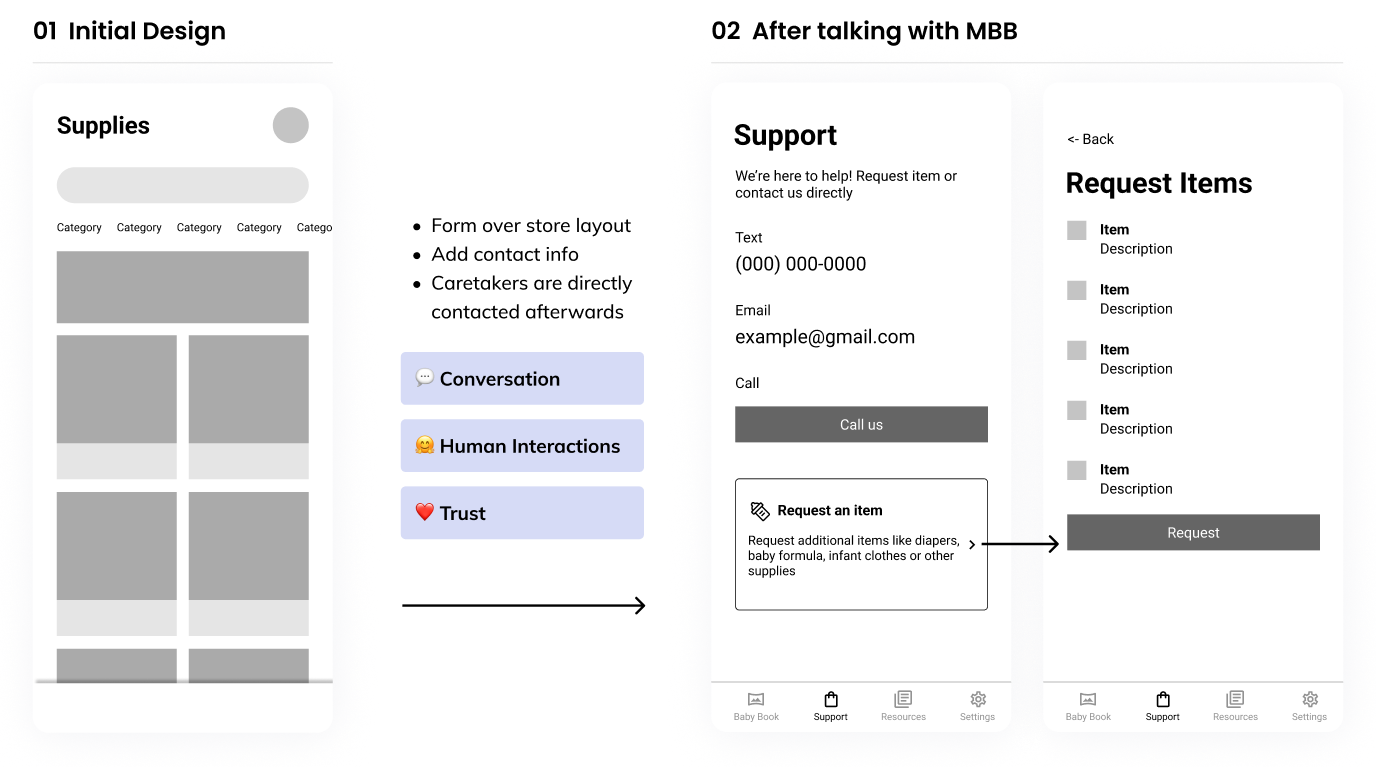
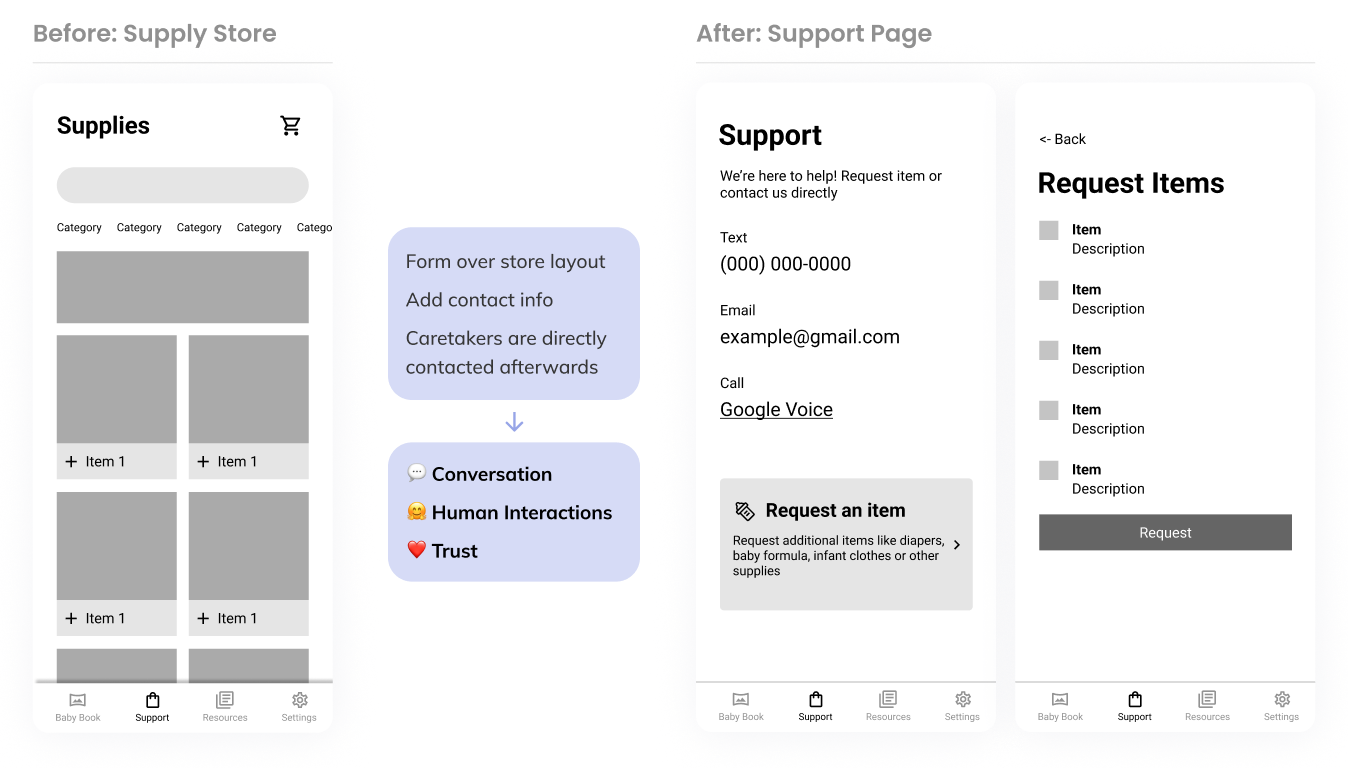
Small updates to MBB and Lacework

diff --git a/mbb.html b/mbb.html
@@ -2,7 +2,7 @@
 <html>
 
 <head>
-  <title>GT Scheduler | Joyce Shen</title>
+  <title>Motherhood Beyond Bars | Joyce Shen</title>
   <meta charset="UTF-8">
   <meta name="viewport" content="width=device-width initial-scale=1">
   <link
@@ -56,7 +56,7 @@
       <p style="margin-top:0;">Figma</p>
     </div>
     <div id="intro-image" style="background-color:var(--mbb-color);">
-      <img class="contain" src="media/mbb/banner.png" alt="Banner">
+      <img class="cover" src="media/mbb/banner.png" alt="Banner">
     </div>
   </div>
 
@@ -72,20 +72,20 @@
 		<div class="s-space"></div>
 
 		<div class="gallery mbb-intro-gallery">
-			<img src="media/mbb/mbb-mobile.png" alt="MBB Mobile">
 			<div>
 				<h3>A mobile app to get caretakers ready for their role</h3>
 				<p>The app contains a variety of features that improves communication between caretakers and MBB.</p>
 			</div>
+			<img src="media/mbb/mbb-mobile.png" alt="MBB Mobile">
 		</div>
 		<div class="s-space"></div>
 
 		<div class="gallery mbb-intro-gallery">
+			<img src="media/mbb/mbb-web.png" alt="MBB Web">
 			<div>
 				<h3>An admin portal to manage information</h3>
 				<p>The corresponding platform to the mobile app, where administrators can access all the information of their caretakers and update forms and information.</p>
 			</div>
-			<img src="media/mbb/mbb-web.png" alt="MBB Web">
 		</div>
 	</div>
 
@@ -124,6 +124,10 @@
 		<p>During our meeting with Amy and Vanessa, they mentioned that MBB was shifting over to a new vivid brand design. As we began to work through our designs, we decided to use gradients, bold colors, inviting language, a plain font, and a minimal design to reflect their brand while keeping our interface simple and readable. We pulled and customized design components from Bits of Good’s own design system.</p>
 		<div class="xs-space"></div>
 		<img class="m-img" src="media/mbb/visual-design.png" alt="Visual Design">
+		<div class="caption">How we incorporated MBB’s Instagram page and website into our product</div>
+		<div class="xs-space"></div>
+		<img class="m-img" src="media/mbb/style-guide.png" alt="Style Guide">
+		<div class="caption">Style guide for colors, fonts, spacing, and drop shadows</div>
 	</div>
 
 
@@ -144,6 +148,7 @@
 		<div class="caption">The admin portal displays a table of caretakers, and admins can whitelist additional caretakers to use the app.</div>
 		<div class="m-space"></div>
 
+		<div class="tag">Process</div>
 		<h3>Challenge: Get wireframes from 0% → 100% in two weeks</h3>
 		<p>This first sprint was a little daunting—because developers began working shortly after we designers started, we had about two weeks to mock up an entire onboarding process. We had to find an efficient way to roll our design in phases to Amy and Vanessa, our leadership team, and the developers.</p>
 		<div class="xs-space"></div>
@@ -168,12 +173,17 @@
 		<div class="caption">Admins can see counts of requested items and a list of individually requested items.</div>
 		<div class="m-space"></div>
 
+		<div class="tag">Process</div>
 		<h3>Over-automated? Maintaining person-to-person interactions</h3>
-		<p><b>We initially visualized the item requests feature as an online store</b>, with a catalog, cart, and all. But MBB explained that requesting items was not a formal process, and they planned to call caretakers individually after they made their requests.</p>
-		<div class="featured-text"><b>Calling caretakers about item requests gives MBB a chance to maintain person-to-person interactions and genuine relationships with caretakers.</b> Phone calls allow them to catch up on how caretakers are doing, so we should avoid over-automating the process. &#10084;&#65039;</div>
-		<p>Working with Amy and Vanessa, we decided the item request feature should be a form within a support page, listed with the organization’s contact information.</p>
+		<p>We initially visualized the item requests feature as an online store, with a catalog, cart, and all. But MBB explained that requesting items was not a formal process, and they planned to call caretakers individually after they made their requests.</p>
+		<p><b>Calling caretakers about item requests gives MBB a chance to maintain person-to-person interactions and genuine relationships with caretakers.</b> Phone calls allow them to catch up on how caretakers are doing, so we should avoid over-automating the process.</p>
+		<p>Working with Amy and Vanessa, we decided the item request feature should be a form on a support page, listed with the organization’s contact information.</p>
 		<div class="xs-space"></div>
 		<img class="m-img" src="media/mbb/overautomated.png" alt="Overautomated">
+		<div class="caption">Changing from a store layout to a support page + form layout</div>
+		<!-- <div class="s-space"></div>
+		<img class="m-img" src="media/mbb/overautomated-2.png" alt="Support page alternative layouts">
+		<div class="caption">Other layouts for the support page we brainstormed</div> -->
 	</div>
 
 
@@ -191,7 +201,9 @@
 		<div class="s-space"></div>
 
 		<img class="xl-img" src="media/mbb/babybook-admin.png" alt="Baby Book - Admin">
-		<div class="caption">Each child has their own baby book that admins can manage. The second screen will also be shared with mothers once they are released, so they can have an album of old photos when they are reunited with their children.</div>
+		<div class="caption">Each child has their own baby book that admins can manage.</div>
+		<div class="s-space"></div>
+		<p>The second screen above will also be shared with mothers once they are released, so they can have an album of old photos when they are reunited with their children.</p>
 	</div>
 
 	<div class="section">
@@ -200,6 +212,7 @@
 		<p>MBB also wanted a way to share and update links and FAQs to caretakers, which is especially helpful for new caretakers.</p>
 		<div class="xs-space"></div>
 		<img class="m-img" src="media/mbb/resources.png" alt="Resources">
+		<div class="caption">Caretakers can see a list of FAQs about childcare, which admins can update.</div>
 	</div>
 
 
@@ -212,6 +225,7 @@
 		<p>The caretaker app and admin app both have a settings page to edit account information. MBB also requested that admins be able to edit liability waivers.</p>
 		<div class="xs-space"></div>
 		<img class="m-img" src="media/mbb/settings.png" alt="Settings">
+		<div class="caption">Both caretakers and admins can edit their settings.</div>
 	</div>
 
 

diff --git a/lacework.html b/lacework.html
@@ -75,18 +75,18 @@
 		<h2>Lacework's reporting workflow</h2>
 		<p>Many of Lacework's customers use PDF and CSV reports to save and share their security status with others in the company. For the 12 weeks of my internship, I worked with my design supervisor and our project PM to restructure Lacework's reporting system, creating a centralized reporting workflow where thousands of security executives across hundreds of Lacework's customers can preview, customize, and edit reports to suit their needs.</p>
 		<p>Throughout the internship, I saw my project unfold from a simple concept wireframe to a full fletched migration plan to the engineering team. It was rewarding to see a page in Lacework's navigation dedicated to reports and how many people across different teams that were excited for my work as an intern.</p>
-		<p>While I cannot share what I worked on publicly, please take a look at general rundown of my design process! If you are a job recruiter, I have also included a password to the full case study on my resume. Feel free to contact me for a password or a chat about this project at jshen315@gatech.edu!</p>
+		<p>While I cannot share what I worked on publicly, please take a look at general rundown of my design process! Feel free to reach out to me for a password or a chat about this project at jshen315@gatech.edu!</p>
 		<div class="xs-space"></div>
 		<div class="gallery double-gallery">
 			<div class="featured-text">
-				Do you have a copy of my resume with a password for this website?
-				<div class="xxs-space"></div>
-				<a class="button inactive-button" style="width:auto">Coming Soon!</a><!--View full case study ↗-->
-			</div>
-			<div class="featured-text">
-				Just browsing?
+				Just want a preview?
 				<div class="xxs-space"></div>
 				<a class="button active-button" style="width:auto" href="https://www.figma.com/proto/8XeD8ukZs7E9hkVJFpgUSK/Lacework-Reports?page-id=55%3A2&node-id=55%3A3&viewport=241%2C48%2C0.04&scaling=min-zoom" target="_blank">View project summary ↗</a>
+			</div>
+			<div class="featured-text" style="opacity:80%;">
+				Want to see the whole project?
+				<div class="xxs-space"></div>
+				<a class="button active-button" style="width:auto" href="mailto:jshen315@gatech.edu">Email me ↗</a><!--View full case study ↗-->
 			</div>
 		</div>
 	</div>
